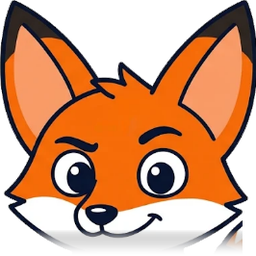
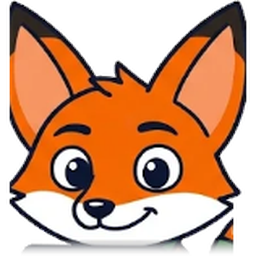
feat(web): cuatro poses del Míster con animación propia en chat, resumen y avisos
Chat alterna tablet y mirada, y la consulta mientras piensa; resumen con lentes y brillo; avisos con ondas de silbato y salto ante un aviso nuevo.

diff --git a/src/footy/web/static/styles.css b/src/footy/web/static/styles.css
@@ -1652,13 +1652,22 @@ section.view > .trust-hidden { display: none; }
 .brief-main { display: flex; align-items: flex-start; gap: var(--s-3); }
 .brief-pose { flex: none; }
 .brief-text { flex: 1; min-width: 0; }
-@media (max-width: 560px) { .brief-pose .mister { width: 72px; height: 72px; } }
+@media (max-width: 560px) { .brief-pose .mister-pose { --pose: 72px; } }
 /* Avisos: los da el Míster */
 .alerts-mister { flex: none; margin: -6px 0 -6px -4px; }
 /* Saludo del chat: mira la tablet y luego al usuario (dos cuadros que se alternan) */
 .mister-duo { position: relative; display: block; width: var(--duo); height: var(--duo); }
 .mister-duo .mister { position: absolute; inset: 0; width: 100%; height: 100%; }
 .mister-duo .duo-b { opacity: 0; }
+/* Poses con efecto: el contenedor fija el tamaño y los efectos se ubican en % de la ilustración */
+.mister-pose { position: relative; display: block; width: var(--pose); height: var(--pose); }
+.mister-pose .mister { width: 100%; height: 100%; }
+.alerts-empty .mister-pose { margin: 0 auto 4px; }
+.fx-glint { position: absolute; left: 53%; top: 31%; width: 13%; height: 13%; pointer-events: none; overflow: visible;
+  transform: scale(0); }
+.fx-glint path { fill: #fff8c4; stroke: #e0a400; stroke-width: 1; }
+.fx-waves { position: absolute; left: -6%; top: 40%; width: 26%; height: 26%; overflow: visible; pointer-events: none; }
+.fx-waves path { fill: none; stroke: var(--accent); stroke-width: 2.2; stroke-linecap: round; opacity: 0; }
 .mister-quote { flex: 1 1 100%; display: flex; align-items: center; gap: 12px; margin-top: 12px; padding-top: 12px; border-top: 1px solid var(--grid); }
 .mister-quote .mister { flex: none; }
 .mister-quote p { margin: 0; font-size: var(--fs-sm); font-style: italic; color: var(--text-2); }
@@ -1669,10 +1678,31 @@ section.view > .trust-hidden { display: none; }
   .mister-live.is-thinking .mister-face { animation: fx-think 1.6s ease-in-out infinite; }
   .agent-fab:hover .mister-face { animation: fx-nod .6s ease-in-out; }
   .agent-fab .mister-face { animation: fx-pop .5s cubic-bezier(.34, 1.56, .64, 1) both; }
+  /* Chat: mira la tablet y luego al usuario; mientras piensa, se queda consultando la tablet */
+  .mister-duo { animation: fx-bob 4s ease-in-out infinite; }
   .mister-duo .duo-a { animation: fx-duo-a 7s ease-in-out infinite; }
   .mister-duo .duo-b { animation: fx-duo-b 7s ease-in-out infinite; }
-  .brief-pose .mister, .alerts-mister .mister { animation: fx-bob 4s ease-in-out infinite; }
+  .mister-duo.is-thinking .duo-a { animation: fx-study 1.2s ease-in-out infinite; opacity: 1; }
+  .mister-duo.is-thinking .duo-b { animation: none; opacity: 0; }
+  /* Resumen: explica con el dedo en alto y un destello cruza los lentes */
+  .pose-brief .mister { transform-origin: 50% 100%; animation: fx-explain 5s ease-in-out infinite; }
+  .pose-brief .fx-glint { animation: fx-glint 5s ease-in-out infinite; }
+  /* Avisos: ondas del silbato y salto cuando llega un aviso nuevo */
+  .pose-alerts .mister { transform-origin: 50% 100%; animation: fx-bob 3s ease-in-out infinite; }
+  .pose-alerts .fx-waves path { animation: fx-wave 2.4s ease-out infinite; }
+  .pose-alerts .fx-waves path:nth-child(2) { animation-delay: .18s; }
+  .pose-alerts .fx-waves path:nth-child(3) { animation-delay: .36s; }
+  .mister-pose.hop .mister { animation: fx-hop .7s cubic-bezier(.34, 1.56, .64, 1) 2; }
 }
+@keyframes fx-duo-a { 0%, 42% { opacity: 1; } 50%, 92% { opacity: 0; } 100% { opacity: 1; } }
+@keyframes fx-duo-b { 0%, 42% { opacity: 0; } 50%, 92% { opacity: 1; } 100% { opacity: 0; } }
+@keyframes fx-study { 0%, 100% { transform: rotate(0); } 50% { transform: rotate(-2.5deg) translateY(1px); } }
+@keyframes fx-explain { 0%, 60%, 100% { transform: rotate(0); } 70% { transform: rotate(-3deg); } 80% { transform: rotate(2deg); }
+  90% { transform: rotate(-1deg); } }
+@keyframes fx-glint { 0%, 62% { transform: scale(0) rotate(0); } 70% { transform: scale(1.1) rotate(45deg); } 78% { transform: scale(.8) rotate(80deg); }
+  86%, 100% { transform: scale(0) rotate(120deg); } }
+@keyframes fx-wave { 0% { opacity: 0; transform: translateX(4px); } 20% { opacity: 1; } 60%, 100% { opacity: 0; transform: translateX(-3px); } }
+@keyframes fx-hop { 0%, 100% { transform: translateY(0); } 40% { transform: translateY(-10px) rotate(-4deg); } }
 @keyframes fx-duo-a { 0%, 42% { opacity: 1; } 50%, 92% { opacity: 0; } 100% { opacity: 1; } }
 @keyframes fx-duo-b { 0%, 42% { opacity: 0; } 50%, 92% { opacity: 1; } 100% { opacity: 0; } }
 @keyframes fx-think { 0%, 100% { transform: rotate(0); } 30% { transform: rotate(-8deg); } 70% { transform: rotate(6deg); } }

diff --git a/src/footy/web/static/mascot.js b/src/footy/web/static/mascot.js
@@ -20,8 +20,17 @@ function misterImg(pose, size, extra = "") {
 const misterFace = (size = 32, extra = "") => misterImg("face", size, extra);
 const misterFull = (size = 120, extra = "") => misterImg("full", size, extra);
 // Saludo del chat: dos cuadros superpuestos que se alternan (mira la tablet, luego al usuario).
-const misterChat = (size = 112) => `<span class="mister-duo" style="--duo:${size}px">
+const misterChat = (size = 112) => `<span class="mister-duo mister-live" style="--duo:${size}px">
   ${misterImg("chat-tablet", size, "duo-a")}${misterImg("chat-look", size, "duo-b")}</span>`;
+// Poses con efecto propio encima de la imagen: destello en los lentes (resumen) y ondas del silbato (avisos).
+// Las posiciones son porcentajes de la ilustración (lentes y silbato), por eso escalan con el tamaño.
+const MISTER_FX = {
+  brief: '<svg class="fx-glint" viewBox="0 0 24 24" aria-hidden="true"><path d="M12 0 14 10 24 12 14 14 12 24 10 14 0 12 10 10Z"/></svg>',
+  alerts: `<svg class="fx-waves" viewBox="0 0 24 24" aria-hidden="true"><path d="M15 7a7 7 0 0 0 0 10"/>
+    <path d="M11 4a11 11 0 0 0 0 16"/><path d="M7 1a15 15 0 0 0 0 22"/></svg>`,
+};
+const misterPose = (pose, size) => `<span class="mister-pose pose-${pose}" style="--pose:${size}px">
+  ${misterImg(pose, size)}${MISTER_FX[pose] || ""}</span>`;
 // Frase con el Míster para estados vacíos: el texto lo pone quien llama (siempre un hecho del sistema, sin cifras inventadas).
 function misterQuote(text, size = 44) {
   return `<div class="mister-quote">${misterFace(size)}<p>${text}</p></div>`;
@@ -34,5 +43,5 @@ function misterThinking(on) {
 // Ranuras estáticas del HTML: <span data-mister="face|chat|brief|alerts|full" data-size="..."></span>
 document.querySelectorAll("[data-mister]").forEach((slot) => {
   const pose = slot.dataset.mister, size = Number(slot.dataset.size) || 64;
-  slot.innerHTML = pose === "chat" ? misterChat(size) : misterImg(pose, size);
+  slot.innerHTML = pose === "chat" ? misterChat(size) : MISTER_FX[pose] ? misterPose(pose, size) : misterImg(pose, size);
 });

diff --git a/src/footy/web/static/alerts.js b/src/footy/web/static/alerts.js
@@ -38,7 +38,7 @@ function renderAlerts() {
   $("#alerts-btn").setAttribute("aria-label", unread.length ? `Avisos, ${unread.length} sin leer` : "Avisos");
   $("#alerts-read-all").disabled = !unread.length;
   if (!alertsState.items.length) {
-    list.innerHTML = `<div class="alerts-empty">${misterImg("alerts", 88)}<b>Sin avisos nuevos</b><span>Te avisaremos cuando juegue un equipo que
+    list.innerHTML = `<div class="alerts-empty">${misterPose("alerts", 92)}<b>Sin avisos nuevos</b><span>Te avisaremos cuando juegue un equipo que
       sigues o aparezca una cuota que valga la pena frente a Pinnacle.</span></div>`;
     return;
   }
@@ -77,6 +77,8 @@ async function loadAlerts() {
     if (fresh.length) {
       const btn = $("#alerts-btn");
       btn.classList.remove("ringing"); void btn.offsetWidth; btn.classList.add("ringing");
+      const coach = $(".alerts-mister .mister-pose");
+      if (coach) { coach.classList.remove("hop"); void coach.offsetWidth; coach.classList.add("hop"); }
       notifyBrowser(fresh);
     }
   } catch (e) {

diff --git a/scripts/prepare_mascot.py b/scripts/prepare_mascot.py
@@ -50,10 +50,10 @@ def remove_background(image: Image.Image, threshold: int = 60) -> Image.Image:
     return out.crop(out.getbbox())
 
 
-def face_crop(image: Image.Image, box: tuple[int, int, int, int], clear: tuple[int, int] | None = None,
-              fade: int = 28) -> Image.Image:
+def face_crop(image: Image.Image, box: tuple[int, int, int, int], clear: tuple[int, int] | None = None) -> Image.Image:
     """Cabeza cuadrada de 256 px; el borde inferior se desvanece en vez de cortar el cuello en seco."""
     crop = image.crop(box)
+    fade = max(4, crop.height // 14)            # proporcional: en imágenes chicas no debe tapar la boca
     px = crop.load()
     if clear:
         for y in range(clear[1], crop.height):

diff --git a/README.md b/README.md
@@ -67,10 +67,11 @@ Colo Colo?»): el apelativo se quita antes de decidir la consulta. La personalid
 (`footy_agents/persona.py`) y cambia solo el tono: las reglas de cifras, valor y riesgo mandan sobre el estilo. El
 saludo o «¿quién eres?» recibe una presentación fija, sin LLM.
 
-Su mascota es un zorro DT, «el zorro del banco»: orejas enormes, cejas decididas, silbato con cordón verde, tablet
-táctica y cinta verde en la cola. Son ilustraciones propias con el fondo quitado (`scripts/prepare_mascot.py`), una
-por lugar: la cabeza en el botón del chat y el avatar; en el saludo mira la tablet y luego al usuario; con lentes en el
-resumen del día; y es quien da los avisos. Si una pose aún no existe, se usa la base. Respeta «reducir movimiento».
+Su mascota es un zorro DT, «el zorro del banco», con silbato, tablet táctica y cinta verde en la cola. Cada lugar
+tiene su pose y su animación: en el chat mira la tablet y luego al usuario (y se queda consultándola mientras piensa
+la respuesta); en el resumen del día explica con lentes y un brillo en el lente; en los avisos toca el silbato, con
+ondas de sonido, y salta cuando llega uno nuevo. Las ilustraciones se preparan con `scripts/prepare_mascot.py` (quita
+el fondo y recorta) y respetan «reducir movimiento».
 
 ![El Míster: cuerpo entero y cabeza en distintos tamaños](docs/img/readme/el-mister.png)
 
